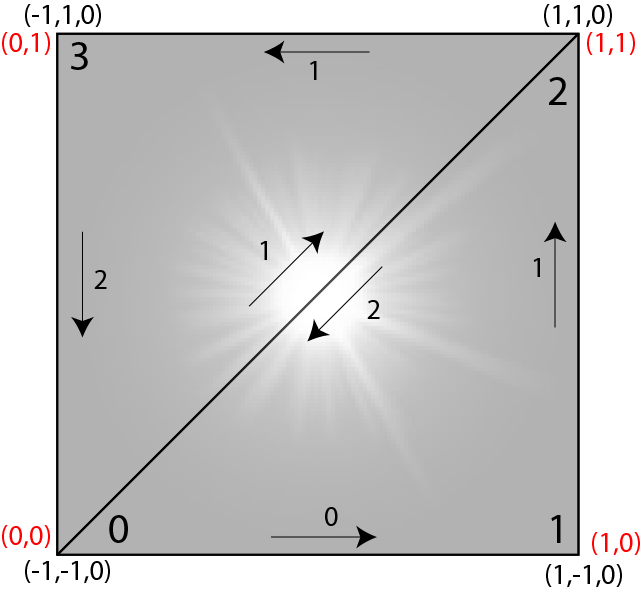
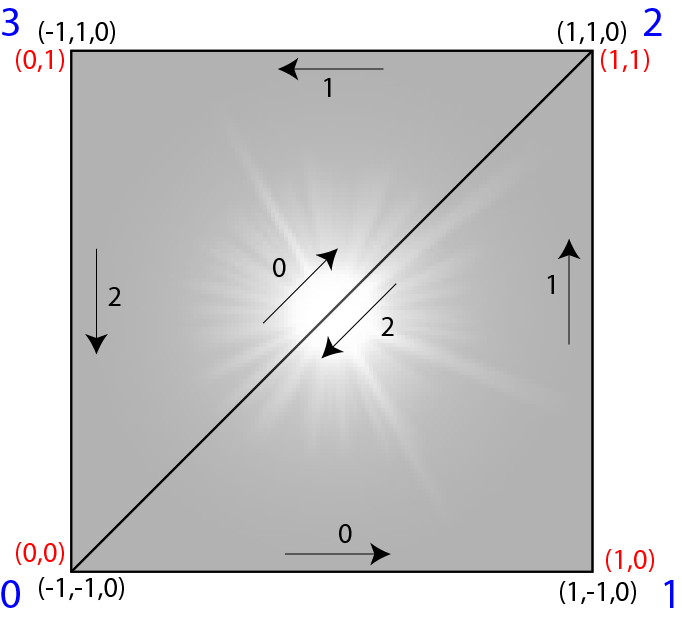
Various minor cleanups and corrections to the coordinates in the mesh construction.

diff --git a/graphics/nehe-three-js/lessons01-08/lesson02/lesson-02.html b/graphics/nehe-three-js/lessons01-08/lesson02/lesson-02.html
@@ -112,11 +112,12 @@ scene.add(camera);</code>
 </pre>
 
 <h4>The Polygons</h4>
-<p>Now, we finally get to creating the polygons!  In this demo all we are doing is creating the world's simplest polygons.  THey are simple, flat 2D objects. THe process to create the triangle (or any arbitrary geometry) consists of:
-  1. Instantiate the geometry object
-  2. Add the vertices
-  3. Define the faces by setting the vertices indices</p>
-       
+<p>Now, we finally get to creating the polygons!  In this demo all we are doing is creating the world's simplest polygons.  THey are simple, flat 2D objects. THe process to create the triangle (or any arbitrary geometry) consists of:  </p>
+<ol>
+  <li>Instantiate the geometry object  </li>
+  <li>Add the vertices  </li>
+  <li>Define the faces by setting the vertices indices</li>
+</ol>
 <pre><code class="language-javascript">var triangleGeometry = new THREE.Geometry();
 triangleGeometry.vertices.push(new THREE.Vector3( 0.0,  1.0, 0.0));
 triangleGeometry.vertices.push(new THREE.Vector3(-1.0, -1.0, 0.0));
@@ -139,7 +140,7 @@ For this lesson, we all we need to do is set 'color' to white.</p>
       side:THREE.DoubleSide
       });</code></pre>
       
-<p> Now create a "mesh" (a collection of polygons) using the geometry and the material. Then t translate the whole
+<p> Now create a "mesh" (a collection of polygons) using the geometry and the material. Then  translate the whole
     mesh by -1.5 on the x axis and by 4 on the z axis. Finally, add the mesh to the scene.</p>
 
 <pre><code class="language-javascript">var triangleMesh = new THREE.Mesh(triangleGeometry, triangleMaterial);
@@ -148,14 +149,14 @@ scene.add(triangleMesh);</code></pre>
       
 <p>The creation of the square is done in the same way as the triangle, except  in how we define the square.  There
     is no Face4 in three.js (for performance reasons).  Instead, we have to define two triangles.  Moreover, the triangles
-    have to have the correct <em><strong>winding</strong></em> or one or the other will effectively be facing &quot;away&quot;
+    have to have the correct <em><strong>winding</strong></em> direction (or order) or one or the other will effectively be facing &quot;away&quot;
     (though since we define the mesh as double-sided that wouldn't show). Still, it is not good practice, so one has to
     ensure that they are have the correct winding direction. So we define the four vertices as ( -1, 1, 0), (1, 1, 0),
     (1, -1, 0), (-1, -1, 0). Then connect them as (0, 1, 2) as one triangle and (0, 2, 3) as the second triangle. The
     resulting geometry then looks like:</p>
       
 <p><img src="images/OpenGL-Square.svg" width="300" height="300" alt=""/></p>
-<p>The process is then:</p>
+<p>Note that the arrows are all going counter-clockwise, which is the default in three.js. The process is then:</p>
 
 <ol>
   <li> Instantiate the geometry object</li>

diff --git a/graphics/nehe-three-js/lessons09-16/lesson09/lesson09.html b/graphics/nehe-three-js/lessons09-16/lesson09/lesson09.html
@@ -54,7 +54,7 @@ squareGeometry.faces.push(new THREE.Face3(0, 2, 3));</code></pre>
 					<p>Since we are going to use the image as mask, we need to load it as texture, as before. However, since we are creating our own mesh, we need to tell three.js how to map the coordinates of the mask-image onto the mesh. Basically, we simply specify which corners of the image correspond to the vertices that we specified as the verticies of the two triangles.</p>
 					<p>Here is an illustration of how the mapping works. The figures in red are the UV coordinates. UV coordinates are just the coordinates in the image-space, where they vary from 0..1 in both X and Y in the image. If you're wondering what UV stands for the answer is nothing - it's just that X, Y and Z were already used for the geometric axes in 3D space. So the previous two letters in the alphabet were chosen. &#9786;</p>
 
-	<p><img src="images/TriGeomMask.svg" width="350" height="350" alt="Triangle Mask Geometry"/></p>
+	<p><img src="images/TriGeomMask.png" width="350" height="350" alt="Triangle Mask Geometry"/></p>
 	
 <p>So we just push the three coordinates, in the image's coordinate space, that correspond to the vertexes of each triangle. Note that the order is critical, the coordinates have to have the same order as the triangles.</p>
 <pre><code class="language-javascript">squareGeometry.faceVertexUvs[0].push([
